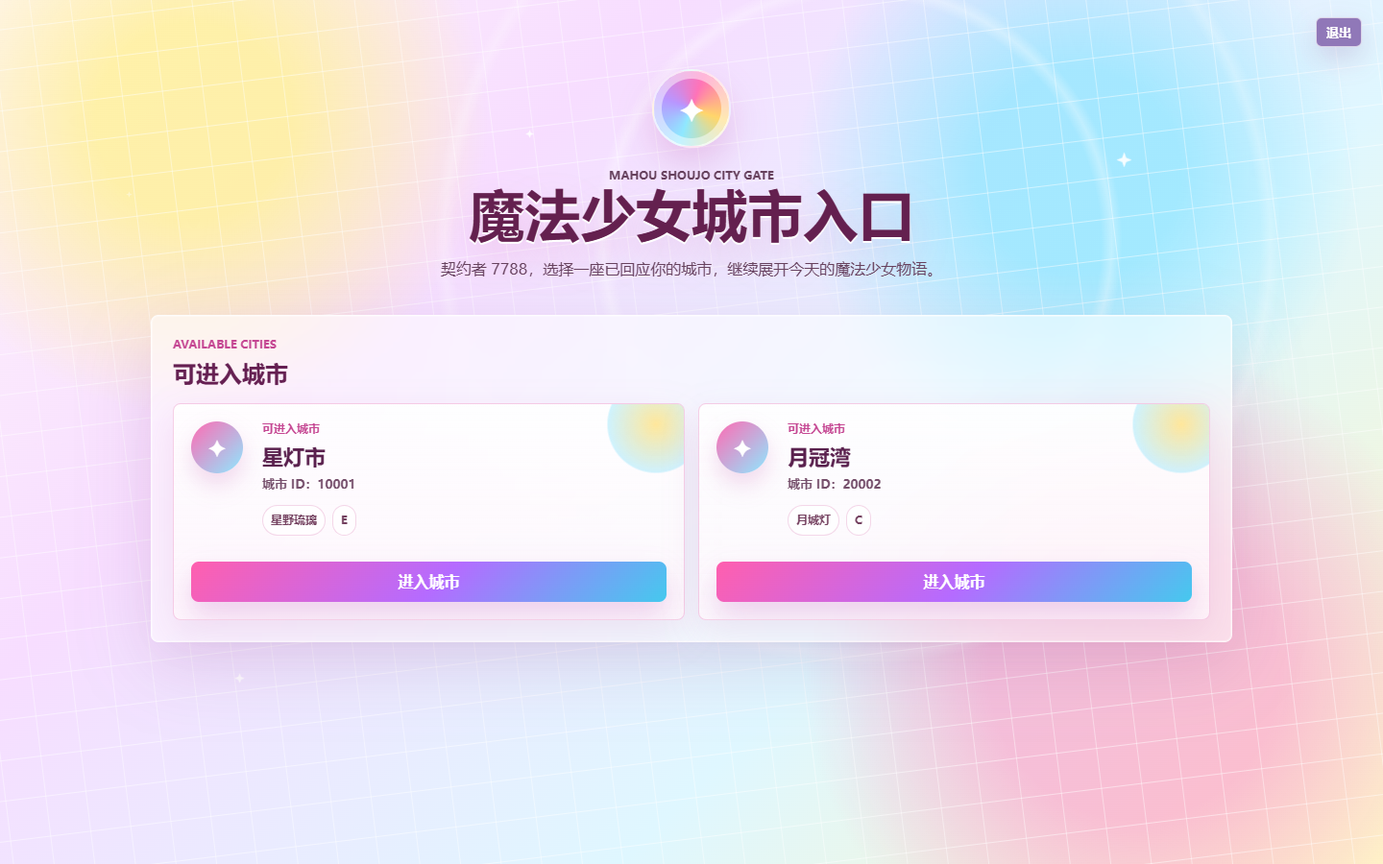
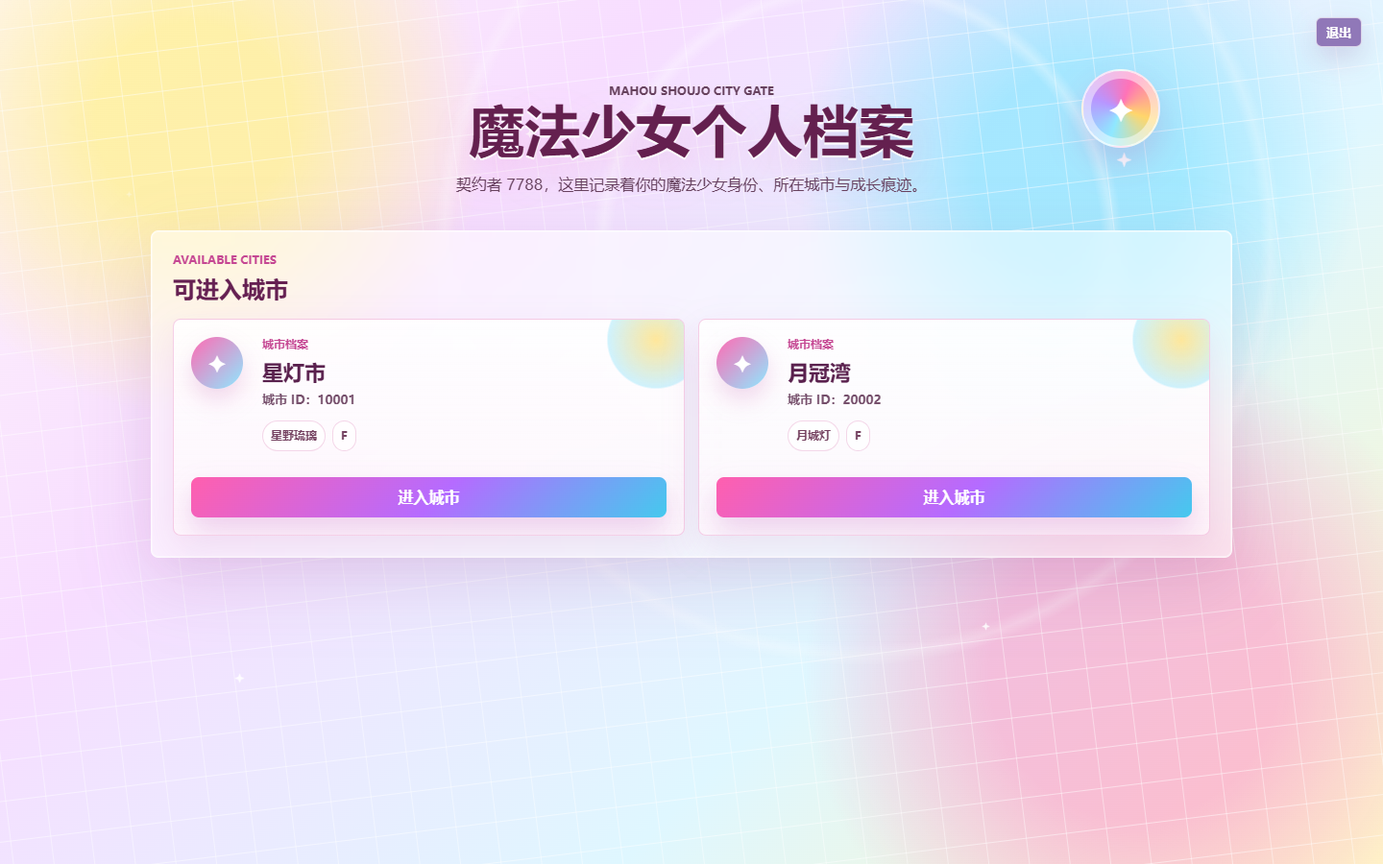
页面优化
页面优化

Changed region(s): [[0.0938, 0.0622, 0.9062, 0.7467], [0.7812, 0.0622, 0.8438, 0.1867]]

diff --git a/player_home_preview.html b/player_home_preview.html
@@ -3,7 +3,7 @@
 <head>
   <meta charset="utf-8">
   <meta name="viewport" content="width=device-width, initial-scale=1">
-  <title>魔法少女城市入口</title>
+  <title>魔法少女个人档案</title>
   <style>
     :root { color-scheme: light; font-family: system-ui, -apple-system, BlinkMacSystemFont, "Segoe UI", sans-serif; }
     body { margin: 0; background: linear-gradient(180deg, #f3f6fb 0%, #eef3f8 42%, #f8fafc 100%); color: #20242a; -webkit-font-smoothing: antialiased; }
@@ -44,8 +44,8 @@
     .player-stars span:nth-child(3) { left: 81%; top: 18%; transform: scale(1.8); animation-delay: .9s; }
     .player-stars span:nth-child(4) { left: 71%; top: 72%; animation-delay: 1.3s; }
     .player-stars span:nth-child(5) { left: 17%; top: 78%; transform: scale(1.2); animation-delay: 1.8s; }
-    .player-hero { position: relative; max-width: 760px; margin: 0 auto 34px; text-align: center; }
-    .player-hero::before { content: "✦"; display: grid; place-items: center; width: 78px; height: 78px; margin: 0 auto 18px; border-radius: 50%; border: 2px solid rgba(255,255,255,.8); background: conic-gradient(from 20deg, #ff73b7, #ffd66b, #8fe8ff, #b896ff, #ff73b7); color: #fff; font-size: 34px; box-shadow: 0 16px 36px rgba(188, 80, 166, .24), inset 0 0 0 8px rgba(255,255,255,.48); }
+    .player-hero { position: relative; max-width: 760px; margin: 0 auto 34px; padding: 12px 108px 0; text-align: center; }
+    .player-hero::before { content: "✦"; position: absolute; top: 0; right: 0; display: grid; place-items: center; width: 78px; height: 78px; border-radius: 50%; border: 2px solid rgba(255,255,255,.8); background: conic-gradient(from 20deg, #ff73b7, #ffd66b, #8fe8ff, #b896ff, #ff73b7); color: #fff; font-size: 34px; box-shadow: 0 16px 36px rgba(188, 80, 166, .24), inset 0 0 0 8px rgba(255,255,255,.48); }
     .player-kicker, .player-section-head span, .city-card-label { display: block; margin: 0 0 8px; color: #c54793; font-size: 12px; font-weight: 900; text-transform: uppercase; letter-spacing: 0; }
     .player-hero h1 { margin: 0 0 12px; color: #64204f; font-size: clamp(34px, 5vw, 58px); line-height: 1.05; text-shadow: 0 2px 0 #fff, 0 18px 40px rgba(204, 70, 157, .18); }
     .player-hero p { margin: 0 auto; max-width: 45em; color: #67425e; line-height: 1.75; }
@@ -67,6 +67,42 @@
     .player-empty-state div { color: #ff62ad; font-size: 44px; }
     .player-empty-state h2 { margin: 4px 0 8px; color: #652052; }
     .player-empty-state p { max-width: 34em; margin: 0 auto; color: #76506c; line-height: 1.7; }
+    main:has(.player-detail-shell) { width: 100%; max-width: none; min-height: 100vh; box-sizing: border-box; padding: 0; overflow: hidden; }
+    main:has(.player-detail-shell) .topbar { position: absolute; top: 18px; right: 22px; z-index: 5; margin: 0; min-height: 0; }
+    main:has(.player-detail-shell) .topbar button { border: 1px solid rgba(255,255,255,.68); background: rgba(112, 72, 156, .72); box-shadow: 0 12px 28px rgba(108, 53, 133, .18); backdrop-filter: blur(10px); }
+    .player-detail-shell { position: relative; min-height: 100vh; padding: 70px clamp(18px, 5vw, 72px) 58px; box-sizing: border-box; overflow: hidden; background: radial-gradient(circle at 13% 16%, rgba(255, 241, 151, .82) 0 7%, transparent 21%), radial-gradient(circle at 82% 18%, rgba(139, 229, 255, .72) 0 8%, transparent 22%), radial-gradient(circle at 80% 82%, rgba(255, 139, 200, .52) 0 11%, transparent 25%), linear-gradient(135deg, #fff5fb 0%, #f7ddff 30%, #dff7ff 66%, #fff6c7 100%); color: #42233f; isolation: isolate; }
+    .player-detail-shell::before { content: ""; position: absolute; inset: -20%; z-index: -2; background-image: linear-gradient(rgba(255,255,255,.48) 1px, transparent 1px), linear-gradient(90deg, rgba(255,255,255,.42) 1px, transparent 1px); background-size: 42px 42px; transform: rotate(-7deg); }
+    .player-detail-shell::after { content: ""; position: absolute; inset: 0; z-index: -1; background: radial-gradient(circle at 50% 18%, transparent 0 22%, rgba(255,255,255,.32) 23%, transparent 24%), radial-gradient(circle at 50% 18%, transparent 0 39%, rgba(255,255,255,.23) 40%, transparent 41%); }
+    .player-detail-hero { position: relative; max-width: 980px; margin: 0 auto 24px; padding: 32px 128px 30px; border: 1px solid rgba(255,255,255,.72); border-radius: 8px; background: rgba(255,255,255,.48); box-shadow: 0 24px 70px rgba(141, 76, 146, .16), inset 0 0 0 1px rgba(255,255,255,.42); backdrop-filter: blur(14px); text-align: center; }
+    .player-back-link { position: absolute; left: 18px; top: 18px; display: inline-flex; align-items: center; min-height: 32px; padding: 0 12px; border: 1px solid rgba(212, 93, 166, .28); border-radius: 999px; background: rgba(255,255,255,.68); color: #8d3975; font-size: 13px; font-weight: 900; }
+    .player-back-link:hover { text-decoration: none; background: rgba(255,255,255,.9); }
+    .player-detail-emblem { position: absolute; top: 18px; right: 24px; width: 86px; height: 86px; display: grid; place-items: center; border-radius: 50%; border: 2px solid rgba(255,255,255,.82); background: conic-gradient(from 20deg, #ff73b7, #ffd66b, #8fe8ff, #b896ff, #ff73b7); color: #fff; font-size: 38px; box-shadow: 0 16px 36px rgba(188, 80, 166, .24), inset 0 0 0 8px rgba(255,255,255,.48); }
+    .player-detail-hero h1 { margin: 0 0 12px; color: #64204f; font-size: clamp(34px, 5vw, 62px); line-height: 1.05; text-shadow: 0 2px 0 #fff, 0 18px 40px rgba(204, 70, 157, .18); overflow-wrap: anywhere; }
+    .player-detail-hero p { margin: 0 auto; max-width: 50em; color: #67425e; line-height: 1.75; }
+    .player-hero-tags { display: flex; justify-content: center; flex-wrap: wrap; gap: 8px; margin-top: 18px; }
+    .player-hero-tags span { min-height: 28px; display: inline-flex; align-items: center; padding: 3px 10px; border: 1px solid rgba(211, 91, 165, .26); border-radius: 999px; background: rgba(255,255,255,.72); color: #744160; font-size: 13px; font-weight: 900; }
+    .player-detail-layout { max-width: 1180px; margin: 0 auto; display: grid; grid-template-columns: repeat(2, minmax(0, 1fr)); gap: 14px; }
+    .player-profile-card, .player-site-section { position: relative; padding: 20px; border: 1px solid rgba(221, 91, 169, .28); border-radius: 8px; background: linear-gradient(180deg, rgba(255,255,255,.9), rgba(255,247,252,.78)); box-shadow: 0 14px 36px rgba(175, 74, 151, .13); overflow: hidden; }
+    .primary-profile-card { grid-row: span 2; }
+    .profile-card-head { margin-bottom: 14px; }
+    .profile-card-head span { display: block; margin: 0 0 6px; color: #c54793; font-size: 12px; font-weight: 900; text-transform: uppercase; letter-spacing: 0; }
+    .profile-card-head h2 { margin: 0; color: #652052; font-size: 24px; }
+    .player-info-grid { display: grid; grid-template-columns: repeat(2, minmax(0, 1fr)); gap: 10px; }
+    .player-info-item { min-height: 64px; padding: 11px 12px; border: 1px solid rgba(211, 91, 165, .22); border-radius: 8px; background: rgba(255,255,255,.62); }
+    .player-info-item span, .player-state-item span { display: block; color: #9b477d; font-size: 12px; font-weight: 900; }
+    .player-info-item strong, .player-state-item strong { display: block; margin-top: 5px; color: #4b2447; font-size: 15px; line-height: 1.45; overflow-wrap: anywhere; }
+    .player-site-section { max-width: 1180px; margin: 14px auto 0; }
+    .player-site-section .detail-panel { border-color: rgba(221, 91, 169, .22); background: rgba(255,255,255,.58); box-shadow: none; }
+    .player-site-section .progress-name { color: #5a214e; }
+    .player-site-section .progress-name::before { border-color: #ffd8eb; border-top-color: #ff5fae; }
+    .player-site-section .progress-fill { background: linear-gradient(90deg, #ff5fae, #45c9ee); box-shadow: 0 0 10px rgba(255, 95, 174, .22); }
+    .player-state-grid { display: grid; grid-template-columns: repeat(4, minmax(0, 1fr)); gap: 10px; }
+    .player-state-item { min-height: 64px; padding: 11px 12px; border: 1px solid rgba(211, 91, 165, .22); border-radius: 8px; background: rgba(255,255,255,.62); }
+    .player-memory-grid { max-width: 1180px; margin: 14px auto 0; display: grid; grid-template-columns: repeat(2, minmax(0, 1fr)); gap: 14px; }
+    .player-memory-grid .player-site-section { margin: 0; }
+    .player-detail-shell .log-card { border-color: rgba(221, 91, 169, .22); background: rgba(255,255,255,.72); box-shadow: 0 8px 22px rgba(175, 74, 151, .08); }
+    .player-detail-shell .log-card-summary, .player-detail-shell .log-card[open] .log-card-summary { background: rgba(255,255,255,.62); }
+    .player-site-empty { margin: 0; padding: 18px; border: 1px dashed rgba(207, 84, 161, .42); border-radius: 8px; background: rgba(255,255,255,.64); color: #76506c; }
     label { display: block; margin: 18px 0 8px; font-weight: 700; color: #303846; }
     input[type="text"] { width: 100%; box-sizing: border-box; padding: 10px 12px; border: 1px solid #c8d0dc; border-radius: 7px; font: inherit; background: #fbfdff; }
     input[type="number"] { width: 76px; box-sizing: border-box; padding: 7px 9px; border: 1px solid #c8d0dc; border-radius: 7px; font: inherit; background: #fbfdff; }
@@ -246,7 +282,9 @@
     @media (max-width: 900px) { .world-entry-grid { grid-template-columns: repeat(2, minmax(0, 1fr)); } .level-field { grid-column: 1 / -1; } }
     @media (max-width: 900px) { .state-overview-grid { grid-template-columns: repeat(2, minmax(0, 1fr)); } }
     @media (max-width: 900px) { .detail-grid, .raw-grid { grid-template-columns: 1fr; } }
-    @media (max-width: 720px) { .player-shell { padding: 76px 16px 34px; } .player-hero { text-align: left; margin-bottom: 22px; } .player-hero::before { margin-left: 0; } .player-city-section { padding: 16px; } .player-section-head { display: block; } .player-city-card { grid-template-columns: 52px 1fr; padding: 15px; } .city-card-orb { width: 46px; height: 46px; } }
+    @media (max-width: 960px) { .player-detail-layout, .player-memory-grid { grid-template-columns: 1fr; } .primary-profile-card { grid-row: auto; } .player-state-grid { grid-template-columns: repeat(2, minmax(0, 1fr)); } }
+    @media (max-width: 720px) { .player-shell { padding: 76px 16px 34px; } .player-hero { padding: 6px 74px 0 0; text-align: left; margin-bottom: 22px; } .player-hero::before { width: 60px; height: 60px; font-size: 27px; } .player-city-section { padding: 16px; } .player-section-head { display: block; } .player-city-card { grid-template-columns: 52px 1fr; padding: 15px; } .city-card-orb { width: 46px; height: 46px; } }
+    @media (max-width: 720px) { .player-detail-shell { padding: 76px 16px 34px; } .player-detail-hero { padding: 58px 82px 22px 18px; text-align: left; } .player-detail-emblem { top: 16px; right: 16px; width: 58px; height: 58px; font-size: 27px; } .player-back-link { left: 14px; top: 14px; } .player-hero-tags { justify-content: flex-start; } .player-info-grid, .player-state-grid { grid-template-columns: 1fr; } .player-profile-card, .player-site-section { padding: 16px; } }
     @media (max-width: 560px) { .state-overview-grid { grid-template-columns: 1fr; } }
     @media (max-width: 560px) { .progress-list { grid-template-columns: 1fr; } }
     @media (max-width: 560px) { .profile-edit-grid { grid-template-columns: 1fr; } }
@@ -259,14 +297,14 @@
               <button class="secondary compact-button" type="submit">退出</button>
             </form>
             </div>
-            <section class="player-shell" aria-label="魔法少女城市入口">
+            <section class="player-shell" aria-label="魔法少女个人档案">
               <div class="player-stars" aria-hidden="true">
                 <span></span><span></span><span></span><span></span><span></span>
               </div>
               <header class="player-hero">
                 <p class="player-kicker">Mahou Shoujo City Gate</p>
-                <h1>魔法少女城市入口</h1>
-                <p>契约者 7788，选择一座已回应你的城市，继续展开今天的魔法少女物语。</p>
+                <h1>魔法少女个人档案</h1>
+                <p>契约者 7788，这里记录着你的魔法少女身份、所在城市与成长痕迹。</p>
               </header>
               <section class="player-city-section">
                 <div class="player-section-head">
@@ -279,11 +317,11 @@
                 <article class="player-city-card">
                   <div class="city-card-orb" aria-hidden="true">✦</div>
                   <div class="city-card-main">
-                    <span class="city-card-label">可进入城市</span>
+                    <span class="city-card-label">城市档案</span>
                     <h2>星灯市</h2>
                     <p>城市 ID：10001</p>
                     <div class="city-card-meta">
-                      <span>星野琉璃</span><span>E</span>
+                      <span>星野琉璃</span><span>F</span>
                     </div>
                   </div>
                   <a class="player-enter-link" href="/player?group_id=10001&user_id=7788">进入城市</a>
@@ -293,11 +331,11 @@
                 <article class="player-city-card">
                   <div class="city-card-orb" aria-hidden="true">✦</div>
                   <div class="city-card-main">
-                    <span class="city-card-label">可进入城市</span>
+                    <span class="city-card-label">城市档案</span>
                     <h2>月冠湾</h2>
                     <p>城市 ID：20002</p>
                     <div class="city-card-meta">
-                      <span>月城灯</span><span>C</span>
+                      <span>月城灯</span><span>F</span>
                     </div>
                   </div>
                   <a class="player-enter-link" href="/player?group_id=20002&user_id=7788">进入城市</a>

diff --git a/player_detail_preview.html b/player_detail_preview.html
@@ -3,7 +3,7 @@
 <head>
   <meta charset="utf-8">
   <meta name="viewport" content="width=device-width, initial-scale=1">
-  <title>星野琉璃的魔法少女档案</title>
+  <title>魔法少女 星野琉璃</title>
   <style>
     :root { color-scheme: light; font-family: system-ui, -apple-system, BlinkMacSystemFont, "Segoe UI", sans-serif; }
     body { margin: 0; background: linear-gradient(180deg, #f3f6fb 0%, #eef3f8 42%, #f8fafc 100%); color: #20242a; -webkit-font-smoothing: antialiased; }
@@ -44,8 +44,8 @@
     .player-stars span:nth-child(3) { left: 81%; top: 18%; transform: scale(1.8); animation-delay: .9s; }
     .player-stars span:nth-child(4) { left: 71%; top: 72%; animation-delay: 1.3s; }
     .player-stars span:nth-child(5) { left: 17%; top: 78%; transform: scale(1.2); animation-delay: 1.8s; }
-    .player-hero { position: relative; max-width: 760px; margin: 0 auto 34px; text-align: center; }
-    .player-hero::before { content: "✦"; display: grid; place-items: center; width: 78px; height: 78px; margin: 0 auto 18px; border-radius: 50%; border: 2px solid rgba(255,255,255,.8); background: conic-gradient(from 20deg, #ff73b7, #ffd66b, #8fe8ff, #b896ff, #ff73b7); color: #fff; font-size: 34px; box-shadow: 0 16px 36px rgba(188, 80, 166, .24), inset 0 0 0 8px rgba(255,255,255,.48); }
+    .player-hero { position: relative; max-width: 760px; margin: 0 auto 34px; padding: 12px 108px 0; text-align: center; }
+    .player-hero::before { content: "✦"; position: absolute; top: 0; right: 0; display: grid; place-items: center; width: 78px; height: 78px; border-radius: 50%; border: 2px solid rgba(255,255,255,.8); background: conic-gradient(from 20deg, #ff73b7, #ffd66b, #8fe8ff, #b896ff, #ff73b7); color: #fff; font-size: 34px; box-shadow: 0 16px 36px rgba(188, 80, 166, .24), inset 0 0 0 8px rgba(255,255,255,.48); }
     .player-kicker, .player-section-head span, .city-card-label { display: block; margin: 0 0 8px; color: #c54793; font-size: 12px; font-weight: 900; text-transform: uppercase; letter-spacing: 0; }
     .player-hero h1 { margin: 0 0 12px; color: #64204f; font-size: clamp(34px, 5vw, 58px); line-height: 1.05; text-shadow: 0 2px 0 #fff, 0 18px 40px rgba(204, 70, 157, .18); }
     .player-hero p { margin: 0 auto; max-width: 45em; color: #67425e; line-height: 1.75; }
@@ -73,10 +73,10 @@
     .player-detail-shell { position: relative; min-height: 100vh; padding: 70px clamp(18px, 5vw, 72px) 58px; box-sizing: border-box; overflow: hidden; background: radial-gradient(circle at 13% 16%, rgba(255, 241, 151, .82) 0 7%, transparent 21%), radial-gradient(circle at 82% 18%, rgba(139, 229, 255, .72) 0 8%, transparent 22%), radial-gradient(circle at 80% 82%, rgba(255, 139, 200, .52) 0 11%, transparent 25%), linear-gradient(135deg, #fff5fb 0%, #f7ddff 30%, #dff7ff 66%, #fff6c7 100%); color: #42233f; isolation: isolate; }
     .player-detail-shell::before { content: ""; position: absolute; inset: -20%; z-index: -2; background-image: linear-gradient(rgba(255,255,255,.48) 1px, transparent 1px), linear-gradient(90deg, rgba(255,255,255,.42) 1px, transparent 1px); background-size: 42px 42px; transform: rotate(-7deg); }
     .player-detail-shell::after { content: ""; position: absolute; inset: 0; z-index: -1; background: radial-gradient(circle at 50% 18%, transparent 0 22%, rgba(255,255,255,.32) 23%, transparent 24%), radial-gradient(circle at 50% 18%, transparent 0 39%, rgba(255,255,255,.23) 40%, transparent 41%); }
-    .player-detail-hero { position: relative; max-width: 980px; margin: 0 auto 24px; padding: 28px 24px 30px; border: 1px solid rgba(255,255,255,.72); border-radius: 8px; background: rgba(255,255,255,.48); box-shadow: 0 24px 70px rgba(141, 76, 146, .16), inset 0 0 0 1px rgba(255,255,255,.42); backdrop-filter: blur(14px); text-align: center; }
+    .player-detail-hero { position: relative; max-width: 980px; margin: 0 auto 24px; padding: 32px 128px 30px; border: 1px solid rgba(255,255,255,.72); border-radius: 8px; background: rgba(255,255,255,.48); box-shadow: 0 24px 70px rgba(141, 76, 146, .16), inset 0 0 0 1px rgba(255,255,255,.42); backdrop-filter: blur(14px); text-align: center; }
     .player-back-link { position: absolute; left: 18px; top: 18px; display: inline-flex; align-items: center; min-height: 32px; padding: 0 12px; border: 1px solid rgba(212, 93, 166, .28); border-radius: 999px; background: rgba(255,255,255,.68); color: #8d3975; font-size: 13px; font-weight: 900; }
     .player-back-link:hover { text-decoration: none; background: rgba(255,255,255,.9); }
-    .player-detail-emblem { width: 86px; height: 86px; display: grid; place-items: center; margin: 8px auto 18px; border-radius: 50%; border: 2px solid rgba(255,255,255,.82); background: conic-gradient(from 20deg, #ff73b7, #ffd66b, #8fe8ff, #b896ff, #ff73b7); color: #fff; font-size: 38px; box-shadow: 0 16px 36px rgba(188, 80, 166, .24), inset 0 0 0 8px rgba(255,255,255,.48); }
+    .player-detail-emblem { position: absolute; top: 18px; right: 24px; width: 86px; height: 86px; display: grid; place-items: center; border-radius: 50%; border: 2px solid rgba(255,255,255,.82); background: conic-gradient(from 20deg, #ff73b7, #ffd66b, #8fe8ff, #b896ff, #ff73b7); color: #fff; font-size: 38px; box-shadow: 0 16px 36px rgba(188, 80, 166, .24), inset 0 0 0 8px rgba(255,255,255,.48); }
     .player-detail-hero h1 { margin: 0 0 12px; color: #64204f; font-size: clamp(34px, 5vw, 62px); line-height: 1.05; text-shadow: 0 2px 0 #fff, 0 18px 40px rgba(204, 70, 157, .18); overflow-wrap: anywhere; }
     .player-detail-hero p { margin: 0 auto; max-width: 50em; color: #67425e; line-height: 1.75; }
     .player-hero-tags { display: flex; justify-content: center; flex-wrap: wrap; gap: 8px; margin-top: 18px; }
@@ -283,8 +283,8 @@
     @media (max-width: 900px) { .state-overview-grid { grid-template-columns: repeat(2, minmax(0, 1fr)); } }
     @media (max-width: 900px) { .detail-grid, .raw-grid { grid-template-columns: 1fr; } }
     @media (max-width: 960px) { .player-detail-layout, .player-memory-grid { grid-template-columns: 1fr; } .primary-profile-card { grid-row: auto; } .player-state-grid { grid-template-columns: repeat(2, minmax(0, 1fr)); } }
-    @media (max-width: 720px) { .player-shell { padding: 76px 16px 34px; } .player-hero { text-align: left; margin-bottom: 22px; } .player-hero::before { margin-left: 0; } .player-city-section { padding: 16px; } .player-section-head { display: block; } .player-city-card { grid-template-columns: 52px 1fr; padding: 15px; } .city-card-orb { width: 46px; height: 46px; } }
-    @media (max-width: 720px) { .player-detail-shell { padding: 76px 16px 34px; } .player-detail-hero { padding: 58px 18px 22px; text-align: left; } .player-detail-emblem { margin-left: 0; } .player-back-link { left: 14px; top: 14px; } .player-hero-tags { justify-content: flex-start; } .player-info-grid, .player-state-grid { grid-template-columns: 1fr; } .player-profile-card, .player-site-section { padding: 16px; } }
+    @media (max-width: 720px) { .player-shell { padding: 76px 16px 34px; } .player-hero { padding: 6px 74px 0 0; text-align: left; margin-bottom: 22px; } .player-hero::before { width: 60px; height: 60px; font-size: 27px; } .player-city-section { padding: 16px; } .player-section-head { display: block; } .player-city-card { grid-template-columns: 52px 1fr; padding: 15px; } .city-card-orb { width: 46px; height: 46px; } }
+    @media (max-width: 720px) { .player-detail-shell { padding: 76px 16px 34px; } .player-detail-hero { padding: 58px 82px 22px 18px; text-align: left; } .player-detail-emblem { top: 16px; right: 16px; width: 58px; height: 58px; font-size: 27px; } .player-back-link { left: 14px; top: 14px; } .player-hero-tags { justify-content: flex-start; } .player-info-grid, .player-state-grid { grid-template-columns: 1fr; } .player-profile-card, .player-site-section { padding: 16px; } }
     @media (max-width: 560px) { .state-overview-grid { grid-template-columns: 1fr; } }
     @media (max-width: 560px) { .progress-list { grid-template-columns: 1fr; } }
     @media (max-width: 560px) { .profile-edit-grid { grid-template-columns: 1fr; } }
@@ -305,7 +305,7 @@
                 <a class="player-back-link" href="/">返回个人档案</a>
                 <div class="player-detail-emblem" aria-hidden="true">✦</div>
                 <p class="player-kicker">Mahou Shoujo Profile</p>
-                <h1>星野琉璃</h1>
+                <h1>魔法少女 星野琉璃</h1>
                 <p>星灯市记录中的魔法少女档案。这里汇总了你的身份、外观、装备、成长进度与最近的冒险痕迹。</p>
                 <div class="player-hero-tags">
                   <span>F</span>
@@ -406,12 +406,32 @@
                 <div class="player-state-grid">
                 <div class="player-state-item">
                   <span>??/????/??</span>
-                  <strong>充沛</strong>
+                  <strong>星键短杖</strong>
                 </div>
                 
                 <div class="player-state-item">
-                  <span>??/??/??/??</span>
-                  <strong>28</strong>
+                  <span>??/????/?????</span>
+                  <strong>星璃之心</strong>
+                </div>
+                
+                <div class="player-state-item">
+                  <span>??/????/??&amp;??</span>
+                  <strong>见习守护者</strong>
+                </div>
+                
+                <div class="player-state-item">
+                  <span>??/????/???</span>
+                  <strong>白金边的樱粉短裙</strong>
+                </div>
+                
+                <div class="player-state-item">
+                  <span>??/????/????</span>
+                  <strong>温柔、细心</strong>
+                </div>
+                
+                <div class="player-state-item">
+                  <span>??/??/??</span>
+                  <strong>36</strong>
                 </div>
                 </div>
               </section>
@@ -422,71 +442,14 @@
                     <span>Diary</span>
                     <h2>最近冒险记录</h2>
                   </div>
-                  <div class="log-list">
-                <details class="log-card">
-                  <summary class="log-card-summary">
-                    <div class="log-card-head">
-                      <div>
-                        <span class="log-index">#1</span>
-                        <h3>屋顶上的星光裂隙</h3>
-                      </div>
-                      
-                    </div>
-                    <div class="log-meta summary-meta">
-                      <span></span>
-                      
-                      <span>log</span>
-                      
-                    </div>
-                  </summary>
-                  <div class="log-card-body">
-                    <div class="log-meta">
-                      <span></span>
-                      
-                      <span>log</span>
-                      
-                    </div>
-                    <p class="log-action">展开结界保护同学</p>
-                    
-                    
-                    <p class="log-result">成功封印小型裂隙，城市夜空恢复平静</p>
-                    
-                  </div>
-                </details>
-                </div>
+                  <div class="log-list"><p class="muted empty-state">还没有战斗记录。</p></div>
                 </article>
                 <article class="player-site-section">
                   <div class="profile-card-head">
                     <span>Connections</span>
                     <h2>城市中的交互</h2>
                   </div>
-                  <div class="log-list">
-                <details class="log-card cameo-card">
-                  <summary class="log-card-summary">
-                    <div class="log-card-head">
-                      <div>
-                        <span class="log-index">#1</span>
-                        <h3>星灯市巡逻</h3>
-                      </div>
-                      
-                    </div>
-                    <div class="log-meta summary-meta">
-                      <span></span>
-                      
-                      <span>来源：月城灯</span>
-                    </div>
-                  </summary>
-                  <div class="log-card-body">
-                    <div class="log-meta">
-                      <span></span>
-                      
-                      <span>来源：月城灯</span>
-                    </div>
-                    
-                    <p class="log-result">在旧车站互相支援，共同完成巡逻</p>
-                  </div>
-                </details>
-                </div>
+                  <div class="log-list"><p class="muted empty-state">还没有其他人与主角的交互。</p></div>
                 </article>
               </section>
             </section>

diff --git a/src/infrastructure/web/save_web_viewer.py b/src/infrastructure/web/save_web_viewer.py
@@ -2663,6 +2663,7 @@ class SaveWebViewer:
         familiar = self._get_nested(protagonist, ["个人信息", "使魔伙伴种类"], "")
         familiar_bond = self._get_nested(protagonist, ["个人信息", "使魔伙伴与主角关系"], "")
         display_name = magical_name or title_name
+        page_name = f"魔法少女 {display_name}"
 
         identity_cards = [
             ("姓名", title_name),
@@ -2690,7 +2691,7 @@ class SaveWebViewer:
         )
 
         return self._html_response(
-            f"{display_name}的魔法少女档案",
+            page_name,
             f"""
             <section class="player-detail-shell" aria-label="魔法少女个人档案">
               <div class="player-stars" aria-hidden="true">
@@ -2700,7 +2701,7 @@ class SaveWebViewer:
                 <a class="player-back-link" href="{self._url('/')}">返回个人档案</a>
                 <div class="player-detail-emblem" aria-hidden="true">✦</div>
                 <p class="player-kicker">Mahou Shoujo Profile</p>
-                <h1>{self._e(display_name)}</h1>
+                <h1>{self._e(page_name)}</h1>
                 <p>{self._e(city_name)}记录中的魔法少女档案。这里汇总了你的身份、外观、装备、成长进度与最近的冒险痕迹。</p>
                 <div class="player-hero-tags">
                   <span>{self._e(level_display(player_data))}</span>
@@ -3662,8 +3663,8 @@ class SaveWebViewer:
     .player-stars span:nth-child(3) {{ left: 81%; top: 18%; transform: scale(1.8); animation-delay: .9s; }}
     .player-stars span:nth-child(4) {{ left: 71%; top: 72%; animation-delay: 1.3s; }}
     .player-stars span:nth-child(5) {{ left: 17%; top: 78%; transform: scale(1.2); animation-delay: 1.8s; }}
-    .player-hero {{ position: relative; max-width: 760px; margin: 0 auto 34px; text-align: center; }}
-    .player-hero::before {{ content: "✦"; display: grid; place-items: center; width: 78px; height: 78px; margin: 0 auto 18px; border-radius: 50%; border: 2px solid rgba(255,255,255,.8); background: conic-gradient(from 20deg, #ff73b7, #ffd66b, #8fe8ff, #b896ff, #ff73b7); color: #fff; font-size: 34px; box-shadow: 0 16px 36px rgba(188, 80, 166, .24), inset 0 0 0 8px rgba(255,255,255,.48); }}
+    .player-hero {{ position: relative; max-width: 760px; margin: 0 auto 34px; padding: 12px 108px 0; text-align: center; }}
+    .player-hero::before {{ content: "✦"; position: absolute; top: 0; right: 0; display: grid; place-items: center; width: 78px; height: 78px; border-radius: 50%; border: 2px solid rgba(255,255,255,.8); background: conic-gradient(from 20deg, #ff73b7, #ffd66b, #8fe8ff, #b896ff, #ff73b7); color: #fff; font-size: 34px; box-shadow: 0 16px 36px rgba(188, 80, 166, .24), inset 0 0 0 8px rgba(255,255,255,.48); }}
     .player-kicker, .player-section-head span, .city-card-label {{ display: block; margin: 0 0 8px; color: #c54793; font-size: 12px; font-weight: 900; text-transform: uppercase; letter-spacing: 0; }}
     .player-hero h1 {{ margin: 0 0 12px; color: #64204f; font-size: clamp(34px, 5vw, 58px); line-height: 1.05; text-shadow: 0 2px 0 #fff, 0 18px 40px rgba(204, 70, 157, .18); }}
     .player-hero p {{ margin: 0 auto; max-width: 45em; color: #67425e; line-height: 1.75; }}
@@ -3691,10 +3692,10 @@ class SaveWebViewer:
     .player-detail-shell {{ position: relative; min-height: 100vh; padding: 70px clamp(18px, 5vw, 72px) 58px; box-sizing: border-box; overflow: hidden; background: radial-gradient(circle at 13% 16%, rgba(255, 241, 151, .82) 0 7%, transparent 21%), radial-gradient(circle at 82% 18%, rgba(139, 229, 255, .72) 0 8%, transparent 22%), radial-gradient(circle at 80% 82%, rgba(255, 139, 200, .52) 0 11%, transparent 25%), linear-gradient(135deg, #fff5fb 0%, #f7ddff 30%, #dff7ff 66%, #fff6c7 100%); color: #42233f; isolation: isolate; }}
     .player-detail-shell::before {{ content: ""; position: absolute; inset: -20%; z-index: -2; background-image: linear-gradient(rgba(255,255,255,.48) 1px, transparent 1px), linear-gradient(90deg, rgba(255,255,255,.42) 1px, transparent 1px); background-size: 42px 42px; transform: rotate(-7deg); }}
     .player-detail-shell::after {{ content: ""; position: absolute; inset: 0; z-index: -1; background: radial-gradient(circle at 50% 18%, transparent 0 22%, rgba(255,255,255,.32) 23%, transparent 24%), radial-gradient(circle at 50% 18%, transparent 0 39%, rgba(255,255,255,.23) 40%, transparent 41%); }}
-    .player-detail-hero {{ position: relative; max-width: 980px; margin: 0 auto 24px; padding: 28px 24px 30px; border: 1px solid rgba(255,255,255,.72); border-radius: 8px; background: rgba(255,255,255,.48); box-shadow: 0 24px 70px rgba(141, 76, 146, .16), inset 0 0 0 1px rgba(255,255,255,.42); backdrop-filter: blur(14px); text-align: center; }}
+    .player-detail-hero {{ position: relative; max-width: 980px; margin: 0 auto 24px; padding: 32px 128px 30px; border: 1px solid rgba(255,255,255,.72); border-radius: 8px; background: rgba(255,255,255,.48); box-shadow: 0 24px 70px rgba(141, 76, 146, .16), inset 0 0 0 1px rgba(255,255,255,.42); backdrop-filter: blur(14px); text-align: center; }}
     .player-back-link {{ position: absolute; left: 18px; top: 18px; display: inline-flex; align-items: center; min-height: 32px; padding: 0 12px; border: 1px solid rgba(212, 93, 166, .28); border-radius: 999px; background: rgba(255,255,255,.68); color: #8d3975; font-size: 13px; font-weight: 900; }}
     .player-back-link:hover {{ text-decoration: none; background: rgba(255,255,255,.9); }}
-    .player-detail-emblem {{ width: 86px; height: 86px; display: grid; place-items: center; margin: 8px auto 18px; border-radius: 50%; border: 2px solid rgba(255,255,255,.82); background: conic-gradient(from 20deg, #ff73b7, #ffd66b, #8fe8ff, #b896ff, #ff73b7); color: #fff; font-size: 38px; box-shadow: 0 16px 36px rgba(188, 80, 166, .24), inset 0 0 0 8px rgba(255,255,255,.48); }}
+    .player-detail-emblem {{ position: absolute; top: 18px; right: 24px; width: 86px; height: 86px; display: grid; place-items: center; border-radius: 50%; border: 2px solid rgba(255,255,255,.82); background: conic-gradient(from 20deg, #ff73b7, #ffd66b, #8fe8ff, #b896ff, #ff73b7); color: #fff; font-size: 38px; box-shadow: 0 16px 36px rgba(188, 80, 166, .24), inset 0 0 0 8px rgba(255,255,255,.48); }}
     .player-detail-hero h1 {{ margin: 0 0 12px; color: #64204f; font-size: clamp(34px, 5vw, 62px); line-height: 1.05; text-shadow: 0 2px 0 #fff, 0 18px 40px rgba(204, 70, 157, .18); overflow-wrap: anywhere; }}
     .player-detail-hero p {{ margin: 0 auto; max-width: 50em; color: #67425e; line-height: 1.75; }}
     .player-hero-tags {{ display: flex; justify-content: center; flex-wrap: wrap; gap: 8px; margin-top: 18px; }}
@@ -3901,8 +3902,8 @@ class SaveWebViewer:
     @media (max-width: 900px) {{ .state-overview-grid {{ grid-template-columns: repeat(2, minmax(0, 1fr)); }} }}
     @media (max-width: 900px) {{ .detail-grid, .raw-grid {{ grid-template-columns: 1fr; }} }}
     @media (max-width: 960px) {{ .player-detail-layout, .player-memory-grid {{ grid-template-columns: 1fr; }} .primary-profile-card {{ grid-row: auto; }} .player-state-grid {{ grid-template-columns: repeat(2, minmax(0, 1fr)); }} }}
-    @media (max-width: 720px) {{ .player-shell {{ padding: 76px 16px 34px; }} .player-hero {{ text-align: left; margin-bottom: 22px; }} .player-hero::before {{ margin-left: 0; }} .player-city-section {{ padding: 16px; }} .player-section-head {{ display: block; }} .player-city-card {{ grid-template-columns: 52px 1fr; padding: 15px; }} .city-card-orb {{ width: 46px; height: 46px; }} }}
-    @media (max-width: 720px) {{ .player-detail-shell {{ padding: 76px 16px 34px; }} .player-detail-hero {{ padding: 58px 18px 22px; text-align: left; }} .player-detail-emblem {{ margin-left: 0; }} .player-back-link {{ left: 14px; top: 14px; }} .player-hero-tags {{ justify-content: flex-start; }} .player-info-grid, .player-state-grid {{ grid-template-columns: 1fr; }} .player-profile-card, .player-site-section {{ padding: 16px; }} }}
+    @media (max-width: 720px) {{ .player-shell {{ padding: 76px 16px 34px; }} .player-hero {{ padding: 6px 74px 0 0; text-align: left; margin-bottom: 22px; }} .player-hero::before {{ width: 60px; height: 60px; font-size: 27px; }} .player-city-section {{ padding: 16px; }} .player-section-head {{ display: block; }} .player-city-card {{ grid-template-columns: 52px 1fr; padding: 15px; }} .city-card-orb {{ width: 46px; height: 46px; }} }}
+    @media (max-width: 720px) {{ .player-detail-shell {{ padding: 76px 16px 34px; }} .player-detail-hero {{ padding: 58px 82px 22px 18px; text-align: left; }} .player-detail-emblem {{ top: 16px; right: 16px; width: 58px; height: 58px; font-size: 27px; }} .player-back-link {{ left: 14px; top: 14px; }} .player-hero-tags {{ justify-content: flex-start; }} .player-info-grid, .player-state-grid {{ grid-template-columns: 1fr; }} .player-profile-card, .player-site-section {{ padding: 16px; }} }}
     @media (max-width: 560px) {{ .state-overview-grid {{ grid-template-columns: 1fr; }} }}
     @media (max-width: 560px) {{ .progress-list {{ grid-template-columns: 1fr; }} }}
     @media (max-width: 560px) {{ .profile-edit-grid {{ grid-template-columns: 1fr; }} }}
